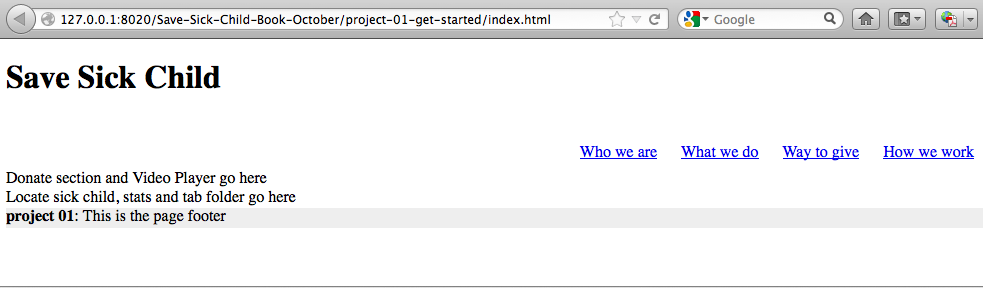
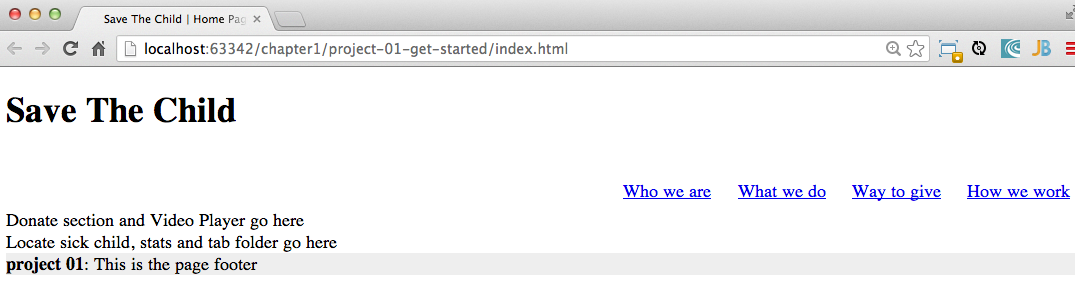
book generated and deployed at 11/22/2013-18:55:31

diff --git a/ch3_mockup.html b/ch3_mockup.html
@@ -582,6 +582,7 @@ p.tableblock.header { color: #6d6e71; }
 <li>
 <ul class="sectlevel3">
 <li><a href="#_single_page_applications">Single Page Applications</a></li>
+<li><a href="#_running_code_examples_from_webstorm">Running Code Examples from WebStorm</a></li>
 <li><a href="#_our_first_prototype">Our First Prototype</a></li>
 <li><a href="#_our_main_page_javascript">Our Main Page JavaScript</a></li>
 <li><a href="#_the_footer_section">The Footer section</a></li>
@@ -623,13 +624,13 @@ p.tableblock.header { color: #6d6e71; }
 <i class="icon-important" title="Important"></i>
 </td>
 <td class="content">
-We assume that the readers know how to write programs in JavaScript. If you are not familiar with this language, please study the materials from <a href="#appendix_a">Appendix A</a> first. You&#8217;ll find a fast paced introduction to JavaScript there.
+We assume that the readers know how to write programs in JavaScript. If you are not familiar with this language, study the materials from <a href="#appendix_a">Appendix A</a> first. You&#8217;ll find a fast paced introduction to JavaScript there.
 </td>
 </tr>
 </table>
 </div>
 <div class="paragraph">
-<p>In Chapter 1 we&#8217;ll start working with a Web designer, will create a mockup, and start development in pure JavaScript. By the end of this chapter the first version of this application will be working using hard-coded data.</p>
+<p>In Chapter 1 we&#8217;ll start working with a Web designer. We&#8217;ll create a mockup, and will start development in pure JavaScript. By the end of this chapter the first version of this application will be working using hard-coded data.</p>
 </div>
 <div class="paragraph">
 <p>Chapter 2 will show you how to use AJAX techniques to allow Web pages communicate with external data sources without the need to refresh the page. We&#8217;ll also cover JSON - a de facto standard data format when it comes to communication between the Web browsers and servers.</p>
@@ -646,7 +647,7 @@ We assume that the readers know how to write programs in JavaScript. If you are 
 <h2 id="_mocking_up_save_the_child_application">Mocking Up Save The Child Application</h2>
 <div class="sectionbody">
 <div class="paragraph">
-<p>We&#8217;ll start working on our Web application Save The Child. It&#8217;s going to be a Web application that will contain a form for donations to sick children, embed a video player, integrate with Google maps, will have charts, and more. The goal is to gradually build all the functionality of this Web application while explaining each step of the way and giving you the reasons why we are building it the way we do. By the end of this chapter we&#8217;ll have the Web design and the first prototype of the Save The Child.</p>
+<p>Let&#8217;s start working on our Web application Save The Child. It&#8217;s going to be a Web application that will contain a form for donations to sick children and embeded video player, will integrate with Google maps, will have charts, and more. The goal is to gradually build all the functionality of this Web application while explaining each step of the way and giving you the reasons why we are building it the way we do. By the end of this chapter we&#8217;ll have the Web design and the first prototype of the Save The Child.</p>
 </div>
 <div class="paragraph">
 <p>The proliferation of mobile devices and Web applications require new skills for development of what was known as boring-looking enterprise applications. In the past, design of the user interface of most of the enterprise applications was done by developers to the best of their artistic abilities: a couple of buttons here, and a grid there on a gray background.  The business users were happy cause they did not see any better. The application allowed to process business data – what else to wish for?  Enterprise business users used to be happy with any UI as long as the application helped them to take care of their business.</p>
@@ -748,7 +749,7 @@ Consider reading Chapter 12 now to understand what you will need to deal with to
 <div class="title">Figure 1. The working area of Balsamiq Mockups</div>
 </div>
 <div class="paragraph">
-<p>If you can&#8217;t find the required image in Balsamiq&#8217;s library, add your own by dragging and dropping it onto the top toolbar. For example, the mockup in Chapter 11 uses our images of the iPhone that we&#8217;ve added to Balsamiq assets.</p>
+<p>If you can&#8217;t find the required image in Balsamiq&#8217;s library, add your own by dragging and dropping it onto the top toolbar. For example, the mockup in Chapter 10 uses our images of the iPhone that we&#8217;ve added to Balsamiq assets.</p>
 </div>
 <div class="admonitionblock tip">
 <table>
@@ -855,13 +856,22 @@ If you prefer using free tools, consider using <a href="http://mockflow.com">Moc
 <p>A Single Page Web Application (SPA) is an architectural approach that doesn&#8217;t require the user going through multiple pages to navigate the site. The user enters the URL in the browser, which brings the Web page that remains open on the screen until the user stop working with this application. The portion of the user&#8217;s screen may change as the user navigate the application, the new data comes in using the AJAX techniques (see Chapter 2), or the new DOM elements will need to be created during the runtime, but the main page itself doesn&#8217;t gets reloaded. This allows building so-called fat client applications that can remember its state. Besides, most likely your HTML5 application will use some JavaScript framework, which in SPA gets loaded only once when the home page gets created by the browser.</p>
 </div>
 <div class="paragraph">
-<p>Have you ever seen a monitor of a trader working for a Wall Street firm? Actually, they usually have three or four large monitors, but let&#8217;s just look at one of them. Imagine a busy screen with lots and lots constantly changing data grouped in dedicated areas of the window. This screen shows the constantly changing prices from financial markets, the trader can place orders to buy or sell products, and notifications on completed trades are also coming to the same screen. If this is would be a Web application it would live in the same Web page. No menus to open another windows.</p>
+<p>Have you ever seen a monitor of a trader working for a Wall Street firm? They usually have three or four large monitors, but let&#8217;s just look at one of them. Imagine a busy screen with lots and lots constantly changing data grouped in dedicated areas of the window. This screen shows the constantly changing prices from financial markets, the trader can place orders to buy or sell products, and notifications on completed trades are also coming to the same screen. If this is would be a Web application it would live in the same Web page. No menus to open another windows.</p>
 </div>
 <div class="paragraph">
 <p>The price of Apple share was $590.45 just a second ago and now it&#8217;s $590.60. How can this be done technically? Here&#8217;s one of the possibilities: every second an AJAX is being made to the remote server providing current stock prices and the JavaScript code finds in the DOM the HTML element responsible for rendering the price and then modifies its value with the latest price.</p>
 </div>
 <div class="paragraph">
 <p>Have you seen a Web page showing an input box of Google&#8217;s Gmail? It looks like a table with a list of rows representing the sender, subject, and the date of when each email arrived. All of a sudden you see a new row in bold on top of the list - the new email came in. How was this done technically? A new object(s) was created and inserted into a DOM tree. No page changes, no needs for the user to refresh the browser&#8217;s page - an undercover AJAX call gets the data and JavaScript changes the DOM. The content of DOM changed - the user sees an updated value.</p>
+</div>
+</div>
+<div class="sect3">
+<h4 id="_running_code_examples_from_webstorm">Running Code Examples from WebStorm</h4>
+<div class="paragraph">
+<p>The authors of this book use WebStorm IDE 7 from JetBrains for developing real-world projects. Appendix C explains how to run code samples in WebStorm.</p>
+</div>
+<div class="paragraph">
+<p>This chapter will include lots of code samples illustrating how the UI is gradually being built.  We&#8217;ve created a number small Web applications. Each of them can be run independently. Just download and open in WebStorm (or any other) IDE the directory containing samples from Chapter 1. After that you&#8217;ll be able to run each of these examples by right-clicking on the index.html and selecting <em>Open in Browser</em> menu of WebStorm.</p>
 </div>
 <div class="sidebarblock">
 <div class="content">
@@ -872,21 +882,21 @@ If you prefer using free tools, consider using <a href="http://mockflow.com">Moc
 <i class="icon-note" title="Note"></i>
 </td>
 <td class="content">
-Authors of this book assume that the users of our Save The Child site work with the modern versions of Web browsers (two year old or younger). The real world Web developers need to deal with finding workarounds to the unsupported CSS or HTML5 features in the old browsers, but modern IDE generate HTML5 boilerplate code that include large CSS files providing different solutions to older browsers. JavaScript frameworks implement workaround for features unsupported by old browsers too, so we don&#8217;t want to clutter the text providing several versions of the code just to make book samples work in outdated browsers. This is especially important when developing Enterprise apps in situations where the majority of users are locked in a particular version of and older Web browser.
+We assume that the users of our Save The Child application work with the modern versions of Web browsers (two year old or younger). The real world Web developers need to deal with finding workarounds to the unsupported CSS or HTML5 features in the old browsers, but modern IDE generate HTML5 boilerplate code that include large CSS files providing different solutions to older browsers.
 </td>
 </tr>
 </table>
 </div>
-</div>
-</div>
 <div class="paragraph">
-<p>This chapter will include lots of code samples illustrating how the UI is gradually being built.  We&#8217;ve created a number of Aptana Studio projects and each of them can be run independently. Create a new workspace in Aptana Studio (File | Switch Workspace) and import all these projects from ch3.zip (see Preface for the source code URL) in one shot (File | Import | General | Exiting projects into Workspace ). After that you&#8217;ll be able to run each of these examples by right-clicking on the index.html and selecting Run as | JavaScript Web Application.</p>
+<p>JavaScript frameworks implement workaround for features unsupported by old browsers too, so we don&#8217;t want to clutter the text providing several versions of the code just to make book samples work in outdated browsers. This is especially important when developing Enterprise apps in situations where the majority of users are locked in a particular version of and older Web browser.</p>
+</div>
+</div>
 </div>
 </div>
 <div class="sect3">
 <h4 id="_our_first_prototype">Our First Prototype</h4>
 <div class="paragraph">
-<p>In this section you&#8217;ll see several Aptana projects that show how the static mockup will turn into a working prototype with the help of HTML, CSS, and JavaScript. Jerry, the designer, decided to have four separate areas on the page hence he created the HTML file index.html that has the tag <code>&lt;header&gt;</code> with the navigation tag <code>&lt;nav&gt;</code>, two <code>&lt;div&gt;</code> tags for the middle sections of the page and a <code>&lt;footer&gt;</code>:</p>
+<p>In this section you&#8217;ll see several projects that show how the static mockup will turn into a working prototype with the help of HTML, CSS, and JavaScript. Jerry, the designer, decided to have four separate areas on the page hence he created the HTML file index.html that has the tag <code>&lt;header&gt;</code> with the navigation tag <code>&lt;nav&gt;</code>, two <code>&lt;div&gt;</code> tags for the middle sections of the page and a <code>&lt;footer&gt;</code>:</p>
 </div>
 <div class="listingblock">
 <div class="content">
@@ -904,16 +914,16 @@ Authors of this book assume that the users of our Save The Child site work with 
 		 &lt;nav&gt;
 		  &lt;ul&gt;
 			&lt;li&gt;
-			  &lt;a href="javascript:void()"&gt;Who we are&lt;/a&gt;
+			  &lt;a href="javascript:void(0)"&gt;Who we are&lt;/a&gt;
 			&lt;/li&gt;
 			&lt;li&gt;
-			  &lt;a href="javascript:void()"&gt;What we do&lt;/a&gt;
+			  &lt;a href="javascript:void(0)"&gt;What we do&lt;/a&gt;
 			&lt;/li&gt;
 			&lt;li&gt;
-			  &lt;a href="javascript:void()"&gt;Way to give&lt;/a&gt;
+			  &lt;a href="javascript:void(0)"&gt;Way to give&lt;/a&gt;
 			&lt;/li&gt;
 			&lt;li&gt;
-			  &lt;a href="javascript:void()"&gt;How we work&lt;/a&gt;
+			  &lt;a href="javascript:void(0)"&gt;How we work&lt;/a&gt;
 			&lt;/li&gt;
 		  &lt;/ul&gt;
 		 &lt;/nav&gt;
@@ -937,7 +947,7 @@ Authors of this book assume that the users of our Save The Child site work with 
 </div>
 </div>
 <div class="paragraph">
-<p>Note that the above HTML includes the CSS file shown below using the <code>&lt;link&gt;</code> tag. Since there is no content yet for the navigation links to open, we use the syntax <code>href="javascript:void()</code> that allows to create a live link that doesn&#8217;t load any page, which is fine on the prototyping stage.</p>
+<p>Note that the above HTML file includes the CSS file shown below using the <code>&lt;link&gt;</code> tag. Since there is no content yet for the navigation links to open, we use the syntax <code>href="javascript:void(0)</code> that allows to create a live link that doesn&#8217;t load any page, which is fine on the prototyping stage.</p>
 </div>
 <div class="admonitionblock tip">
 <table>
@@ -989,7 +999,7 @@ footer #temp-project-name-container {
 </div>
 </div>
 <div class="paragraph">
-<p>The above CSS controls not only the styles of the page content, but also that sets the page layout. The <code>&lt;nav&gt;</code> section should be pushed to the right. If an unordered list is placed inside the <code>&lt;nav&gt;</code>, it should be left aligned. The width of the HTML container with ID <code>main-container</code> should be 980 pixels, and it has to be automatically centered. The footer will be 20 pixels high and should have a gray background. The first version of our Web page is shown on <a href="#FIG3-6">Working prototype. Take 1: Getting Started.</a></p>
+<p>The above CSS controls not only the styles of the page content, but also that sets the page layout. The <code>&lt;nav&gt;</code> section should be pushed to the right. If an unordered list is placed inside the <code>&lt;nav&gt;</code>, it should be left aligned. The width of the HTML container with ID <code>main-container</code> should be 980 pixels, and it has to be automatically centered. The footer will be 20 pixels high and should have a gray background. The first version of our Web page is shown on <a href="#FIG3-6">Working prototype. Take 1: Getting Started</a>. Run index.html from the project-01-get-started.</p>
 </div>
 <div class="admonitionblock tip">
 <table>
@@ -1007,19 +1017,19 @@ In Chapter 10 you&#8217;ll see how to create Web pages with more flexible layout
 <div class="content">
 <img src="images/fig_03_06.png" alt="fig 03 06">
 </div>
-<div class="title">Figure 6. Working prototype. Take 1: Getting Started.</div>
+<div class="title">Figure 6. Working prototype. Take 1: Getting Started</div>
 </div>
 <div class="paragraph">
-<p>The next version of our prototype is a lot more interesting and it will contain a lot more code. First of all, the CSS file will become fancier, the layout of the four page sections will properly divide the screen real estate. We&#8217;ll add a Logo and a nicely styled Login button to the top of the page. This version of the code will also introduce some JavaScript supporting user&#8217;s authorization. Run the Aptana project project-02-login, and you&#8217;ll see a window similar to <a href="#FIG3-7">Working prototype. Take2: Login.</a>.</p>
+<p>The next version of our prototype is more interesting, and it will contain a lot more code. First of all, the CSS file will become fancier, the layout of the four page sections will properly divide the screen real estate. We&#8217;ll add a Logo and a nicely styled Login button to the top of the page. This version of the code will also introduce some JavaScript supporting user&#8217;s authorization. Run the project-02-login, and you&#8217;ll see a window similar to <a href="#FIG3-7">Working prototype. Take2: Login</a>.</p>
 </div>
 <div id="FIG3-7" class="imageblock">
 <div class="content">
 <img src="images/fig_03_07.png" alt="fig 03 07">
 </div>
-<div class="title">Figure 7. Working prototype. Take2: Login.</div>
+<div class="title">Figure 7. Working prototype. Take2: Login</div>
 </div>
 <div class="paragraph">
-<p>The new Aptana project created by Jerry has several directories to keep JavaScript, images, CSS, and fonts separately. We&#8217;ll talk about special icon fonts later in this section, but first things first - let&#8217;s take a close look at the HTML code.</p>
+<p>This project has several directories to keep JavaScript, images, CSS, and fonts separately. We&#8217;ll talk about special icon fonts later in this section, but first things first - let&#8217;s take a close look at the HTML code.</p>
 </div>
 <div class="listingblock">
 <div class="content">
@@ -1109,7 +1119,7 @@ In Chapter 10 you&#8217;ll see how to create Web pages with more flexible layout
 <p>Usually, the logos on multi-page Web sites are clickable - they bring up the home page. That&#8217;s why Jerry placed the anchor tag in the logo section. But we are planning to build a single-page application so having a clickable logo won&#8217;t be needed.</p>
 </div>
 <div class="paragraph">
-<p>Run this project in Aptana and click on the button Login, and you&#8217;ll see that it reacts. But looking at the login-related <code>&lt;a&gt;</code> tags in the <code>&lt;header&gt;</code> section you&#8217;ll find nothing but <code>href="javascript:void(0)"</code>. So why the button reacts? Read the code in the main.js shown below, and you&#8217;ll find there line <code>loginLink.addEventListener('click', showLoginForm, false);</code> that invokes the callback <code>showLoginForm()</code>. That why the Login button reacts. This seems confusing cause the anchor component was used here just for styling purposes. In this example a better solution  would be to replace the anchor tag <code>&lt;a id="login-link" class="show-form" href="javascript:void(0)"&gt;</code> with another component that doesn&#8217;t make the code confusing, for example <code>&lt;div id="login-link" class="show-form"&gt;</code>.</p>
+<p>Run this project in WebStorm and click on the button Login, and you&#8217;ll see that it reacts. But looking at the login-related <code>&lt;a&gt;</code> tags in the <code>&lt;header&gt;</code> section you&#8217;ll find nothing but <code>href="javascript:void(0)"</code>. So why the button reacts? Read the code in the main.js shown below, and you&#8217;ll find there line <code>loginLink.addEventListener('click', showLoginForm, false);</code> that invokes the callback <code>showLoginForm()</code>. That why the Login button reacts. This seems confusing cause the anchor component was used here just for styling purposes. In this example a better solution  would be to replace the anchor tag <code>&lt;a id="login-link" class="show-form" href="javascript:void(0)"&gt;</code> with another component that doesn&#8217;t make the code confusing, for example <code>&lt;div id="login-link" class="show-form"&gt;</code>.</p>
 </div>
 <div class="admonitionblock important">
 <table>
@@ -1118,7 +1128,7 @@ In Chapter 10 you&#8217;ll see how to create Web pages with more flexible layout
 <i class="icon-important" title="Important"></i>
 </td>
 <td class="content">
-We do not want build Web applications the old way when a server-side program prepares and sends UI fragments to the client. The server and the client send to each other only the data. If the server is not available, we can use the local storage (the offline mode) or a mockup data one the client.
+We do not want to build Web applications the old way when a server-side program prepares and sends UI fragments to the client. The server and the client send to each other only the data. If the server is not available, we can use the local storage (the offline mode) or a mockup data one the client.
 </td>
 </tr>
 </table>
@@ -1245,7 +1255,7 @@ We keep the user ID and password in this code just for the illustration purposes
 <div class="sect4">
 <h5 id="_where_to_put_javascript">Where to put JavaScript</h5>
 <div class="paragraph">
-<p>We recommend placing the <code>&lt;script&gt;</code> tag with your JavaScript at the end of your HTML file as in our index.html above. If you move the line <code>&lt;script src="js/main.js"&gt;&lt;/script&gt;</code> to the top of the <code>&lt;body&gt;</code> section and re-run index.html the screen will look as in <a href="#FIG3-7">Working prototype. Take2: Login.</a>, but clicking on the Login won&#8217;t display the login form as it should. Why? Because registering of the event listeners in the script main.js failed cause the DOM components  (<code>login-link</code>, <code>login-form</code> and others) were not created yet by the time this script was running. Open the Firebug, Chrome Developer Tools, or any other debugging tool and you&#8217;ll see an error on the console that will look similar to the following:</p>
+<p>We recommend placing the <code>&lt;script&gt;</code> tag with your JavaScript at the end of your HTML file as in our index.html above. If you move the line <code>&lt;script src="js/main.js"&gt;&lt;/script&gt;</code> to the top of the <code>&lt;body&gt;</code> section and re-run index.html the screen will look as in <a href="#FIG3-7">Working prototype. Take2: Login</a>, but clicking on the Login won&#8217;t display the login form as it should. Why? Because registering of the event listeners in the script main.js failed cause the DOM components  (<code>login-link</code>, <code>login-form</code> and others) were not created yet by the time this script was running. Open the Firebug, Chrome Developer Tools, or any other debugging tool and you&#8217;ll see an error on the console that will look similar to the following:</p>
 </div>
 <div class="paragraph">
 <p><em>"TypeError: loginLink is null
@@ -1270,7 +1280,7 @@ The <code>&lt;script&gt;</code> tag support <code>defer</code> and <code>async</
 <div class="sect4">
 <h5 id="_the_css_of_our_main_page">The CSS of our Main Page</h5>
 <div class="paragraph">
-<p>After reviewing the HTML and JavaScript code let&#8217;s spend a little more time with the CSS that supports the pages shown in <a href="#FIG3-7">Working prototype. Take2: Login.</a>. The difference between the screen shots shown in <a href="#FIG3-6">Working prototype. Take 1: Getting Started.</a> and <a href="#FIG3-7">Working prototype. Take2: Login.</a> is substantial. First, the top left image is nowere to be found in index.html. Open the styles.css file and you&#8217;ll see the line <code>background: url(../img/logo.png) no-repeat;</code> in the <code>header h1#logo</code> section.</p>
+<p>After reviewing the HTML and JavaScript code let&#8217;s spend a little more time with the CSS that supports the pages shown in <a href="#FIG3-7">Working prototype. Take2: Login</a>. The difference between the screen shots shown in <a href="#FIG3-6">Working prototype. Take 1: Getting Started</a> and <a href="#FIG3-7">Working prototype. Take2: Login</a> is substantial. First, the top left image is nowere to be found in index.html. Open the styles.css file and you&#8217;ll see the line <code>background: url(../img/logo.png) no-repeat;</code> in the <code>header h1#logo</code> section.</p>
 </div>
 <div class="paragraph">
 <p>The page layout is also specified in the file styles.css. In this version the sizes of each section is specified in pixels (px), which won&#8217;t make you page fluid and easily resizable.  For example, the HTML element with <code>id="main-top-section"</code> is styled like this:</p>
@@ -1288,7 +1298,7 @@ The <code>&lt;script&gt;</code> tag support <code>defer</code> and <code>async</
 <p>Jerry styled the main to section to take the entire width of the browser&#8217;s window and to be 320 pixels tall. If you&#8217;ll keep in mind the "Mobile First" mantra, this may not be the best approach cause 320 pixels mean difference size (in inches) on the displays with different screen density. For example, 320 pixels on the iPhone 5 with retina display will look a lot smaller than 320 pixels on the iPhone 4. You may consider switching from <code>px</code> to <code>em</code> units: 1em is equal to the current font height, 2em means twice the size et al. You can read more about creating scalable style sheets with <em>em</em> units at <a href="http://www.w3.org/WAI/GL/css2em.htm">http://www.w3.org/WAI/GL/css2em.htm</a>.</p>
 </div>
 <div class="paragraph">
-<p>What looks a Login button on <a href="#FIG3-7">Working prototype. Take2: Login.</a> is not a button, but a styled <code>div</code> element. Initially it was a clickable anchor <code>&lt;a&gt;</code>, and we&#8217;ve explained this change right after the listing shown index.html above. The CSS fragment supporting the Login button looks like this:</p>
+<p>What looks a Login button on <a href="#FIG3-7">Working prototype. Take2: Login</a> is not a button, but a styled <code>div</code> element. Initially it was a clickable anchor <code>&lt;a&gt;</code>, and we&#8217;ve explained this change right after the listing shown index.html above. The CSS fragment supporting the Login button looks like this:</p>
 </div>
 <div class="listingblock">
 <div class="content">
@@ -1313,7 +1323,7 @@ The <code>&lt;script&gt;</code> tag support <code>defer</code> and <code>async</
 <div class="sect3">
 <h4 id="_the_footer_section">The Footer section</h4>
 <div class="paragraph">
-<p>The footer section comes next. Run the Aptana&#8217;s project called project-03-footer and you&#8217;ll see a new version of the Save The Child page with the bottom portion that looks as in <a href="#FIG3-9">The footer section</a>. The footer section shows several icons linking to Facebook, Google Plus, Twitter, RSS feed, and e-mail.</p>
+<p>The footer section comes next. Run the project called project-03-footer and you&#8217;ll see a new version of the Save The Child page with the bottom portion that looks as in <a href="#FIG3-9">The footer section</a>. The footer section shows several icons linking to Facebook, Google Plus, Twitter, RSS feed, and e-mail.</p>
 </div>
 <div id="FIG3-9" class="imageblock">
 <div class="content">
@@ -1360,15 +1370,14 @@ The <code>&lt;script&gt;</code> tag support <code>defer</code> and <code>async</
 		url('../fonts/icomoon.ttf') format('truetype');
 	font-weight: normal;
 	font-style: normal;
-}
-</code></pre>
+}</code></pre>
 </div>
 </div>
 </div>
 <div class="sect3">
 <h4 id="_the_donate_section">The Donate Section</h4>
 <div class="paragraph">
-<p>The section with the Donate button and the donation form will be located  in the top portion of page right below the navigation area. Initially, the page will open up with the background image of a sick but smiley boy on the right and a large Donate button on the left. The image shown on <a href="#FIG3-10">The initial view of the Donate section</a> is taken from a large collection of photos at <a href="http://www.istockphoto.com/">iStockphoto</a> Web site. We haven&#8217;t paid for it just yet hence it shows the iStockPhoto watermark. We are going to purchase this photo as well as the top left logo, to be perfectly legitimate. We&#8217;re also using two more background images here: one with the flowers, and the other with the sun and clouds, and you can find the references to these images in the styles.css file. Run the Aptana&#8217;s project-04-donation and you&#8217;ll see the new version of or Save The Child page that will look as on <a href="#FIG3-10">The initial view of the Donate section</a>.</p>
+<p>The section with the Donate button and the donation form will be located  in the top portion of page right below the navigation area. Initially, the page will open up with the background image of a sick but smiley boy on the right and a large Donate button on the left. The image shown on <a href="#FIG3-10">The initial view of the Donate section</a> is taken from a large collection of photos at <a href="http://www.istockphoto.com/">iStockphoto</a> Web site.  We&#8217;re also using two more background images here: one with the flowers, and the other with the sun and clouds, and you can find the references to these images in the styles.css file. Run the project-04-donation and you&#8217;ll see the new version of or Save The Child page that will look as on <a href="#FIG3-10">The initial view of the Donate section</a>.</p>
 </div>
 <div id="FIG3-10" class="imageblock">
 <div class="content">
@@ -2465,7 +2474,7 @@ function getMapByAddress() {
 </div>
 <div id="footer">
 <div id="footer-text">
-Last updated 2013-11-22 10:16:33 EST
+Last updated 2013-11-22 18:53:32 EST
 </div>
 </div>
 </body>

diff --git a/appendix_c_ide.html b/appendix_c_ide.html
@@ -581,7 +581,10 @@ p.tableblock.header { color: #6d6e71; }
 <div id="preamble">
 <div class="sectionbody">
 <div class="paragraph">
-<p>The code samples used in this book are available on Github and are grouped by chapters.  If a chapter has code samples look for the archive file with the respective name, for example chapter1.zip contains the code samples for Chapter 1.  Technically, you don&#8217;t have to use any Integrated Development Environment (IDE) to run code examples (except CDB example from Chapter 7) - just open the main file in a Web browser and off you go.  But using an IDE will make you more productive.</p>
+<p>The code samples used in this book are available on <a href="https://github.com/Farata/EnterpriseWebBook_sources">Github</a> - they are grouped by chapters.  If a chapter has code samples, look for the directory with the respective name.</p>
+</div>
+<div class="paragraph">
+<p>Technically, you don&#8217;t have to use any Integrated Development Environment (IDE) to run code examples (except the CDB example from Chapter 5) - just open the main file in a Web browser and off you go.  But using an IDE will make you more productive.</p>
 </div>
 </div>
 </div>
@@ -613,7 +616,7 @@ p.tableblock.header { color: #6d6e71; }
 <div class="sectionbody">
 <div class="paragraph">
 <p>WebStorm IDE is pretty intuitive to use. If you&#8217;ve never used it before, refer to its <a href="http://www.jetbrains.com/webstorm/quickstart/">Quick Start Guide</a>.
-When you first start WebStorm IDE, select the option <em>Open Directory</em> in the Welcome screen. Then select the directory where you downloaded and unzipped the samples of a specific book chapter. For example, after opening code samples from Chapter 1 the WebStorm IDE will look as follows:</p>
+When you first start WebStorm IDE, select the option <em>Open Directory</em> in the Welcome screen. Then select the directory where you downloaded the samples of a specific book chapter. For example, after opening code samples from Chapter 1 the WebStorm IDE may look as follows:</p>
 </div>
 <div id="FIGc-11" class="imageblock">
 <div class="content">
@@ -622,7 +625,10 @@ When you first start WebStorm IDE, select the option <em>Open Directory</em> in 
 <div class="title">Figure 1. Code Samples from Chapter 1 in WebStorm</div>
 </div>
 <div class="paragraph">
-<p>Right-click on the HTML file you want to open (e.g. index.html) and select Open in Browser to test. If you want to serve your HTML5 project via a Web server, WebStorm IDE comes with a simple <a href="http://blog.jetbrains.com/webide/2013/03/built-in-server-in-webstorm-6/">internal Web server</a>.You just need to open the URL <a href="http://localhost:63342">http://localhost:63342</a> in your browser and append the name of your project. For example, if the WebStorm&#8217;s project name is ssc, then  <a href="http://localhost:63342/ssc">http://localhost:63342/ssc</a> will allow you to open the project in the Web browser.</p>
+<p>The  WebStorm IDE comes with a simple <a href="http://blog.jetbrains.com/webide/2013/03/built-in-server-in-webstorm-6/">internal Web server</a>. Right-click on the HTML file you want to open (e.g. index.html) and select the menu Open in Browser. WebStorm&#8217;s internal server will serve the file to the browser.</p>
+</div>
+<div class="paragraph">
+<p>For example, if the WebStorm&#8217;s opened directory chapter1 as in Figure <a href="#FIGc-11">Code Samples from Chapter 1 in WebStorm</a> you&#8217;ll see the following URL in your Web browser: <em><a href="http://localhost:63342/chapter1/project-01-get-started">http://localhost:63342/chapter1/project-01-get-started</a></em>.</p>
 </div>
 <div class="admonitionblock tip">
 <table>
@@ -667,14 +673,14 @@ You can configure in WebStorm the port number of the internal Web Server via  Pr
 </ol>
 </div>
 <div class="paragraph">
-<p>Such setup looks like an overkill, but we are talking about the enterprise development where you may jump through some hoops to create a convenient working environment for yourself.</p>
+<p>Such complex setup looks like an overkill, but we are talking about the enterprise development where you may jump through some hoops to create a convenient working environment for yourself. Besides, you do it only once.</p>
 </div>
 </div>
 </div>
 </div>
 <div id="footer">
 <div id="footer-text">
-Last updated 2013-11-22 13:42:23 EST
+Last updated 2013-11-22 17:48:15 EST
 </div>
 </div>
 </body>
